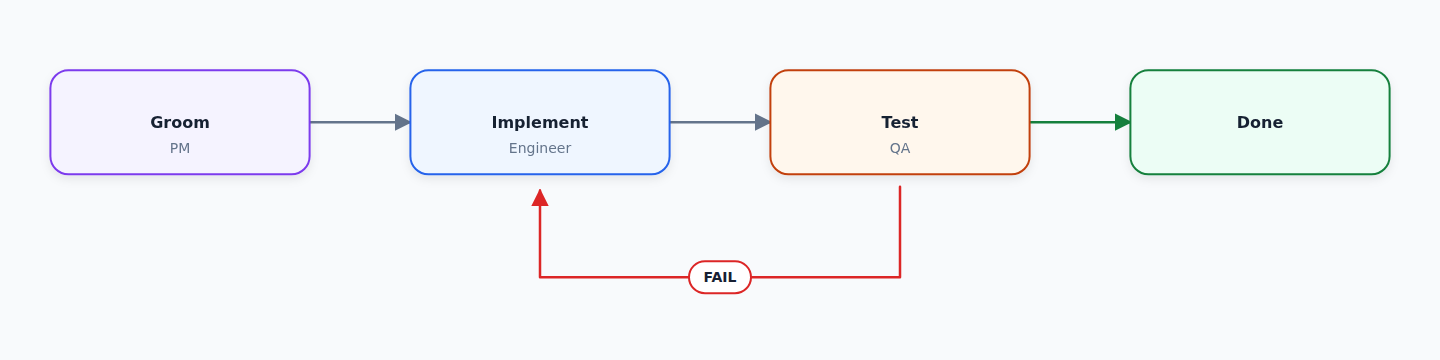
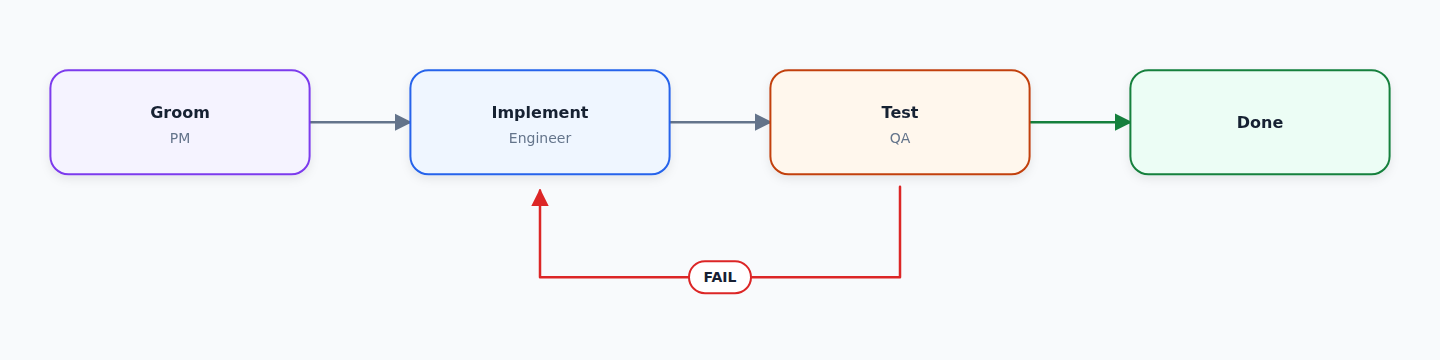
Fix ring corner arcs, center captions, and card alignment
Three defects visible in a rendered five-node ring:

Where the ring circle only grazes a card corner, the arc left the box
past the corner rather than beside a side, so the two cards straddling
the bottom were joined by a connector sagging underneath both of them.
Those pairs now get a direct connector between their facing sides.

The center detail line is a sentence of unknown width, and it cut
straight through the annotation circle. Render it as a caption below the
circle instead.

An icon left-aligned the title but the subtitle stayed centered, giving
each card two competing text axes and three ragged left edges. Share the
icon's margin, center the whole block on the card rather than just the
icon row, and fit long subtitles the way titles were already fitted.

Changed region(s): [[0.3438, 0.3056, 0.4062, 0.4278], [0.0938, 0.3056, 0.1562, 0.4278], [0.5938, 0.3056, 0.6562, 0.4278]]

diff --git a/tests/test_renderer.py b/tests/test_renderer.py
@@ -28,7 +28,7 @@ def ring_spec(width, height, *, count=5, margin=None):
                 {"from": f"step-{index}", "to": f"step-{(index + 1) % count}", "route": "ring"}
                 for index in range(count)
             ],
-            "center": {"title": "LOOP"},
+            "center": {"title": "LOOP", "detail": "Each round tells you what to fix"},
         }
     )
 
@@ -386,14 +386,47 @@ def test_renders_a_five_node_ring_as_svg(tmp_path):
     # The first card sits at the top of the circle and the rest follow clockwise.
     assert centers[0] == pytest.approx((center_x, center_y - radii[0]), abs=0.5)
     assert ring_angles(centers, center_x, center_y) == pytest.approx([72] * 5, abs=0.5)
-    # Every connector is one arc that follows the ring itself.
-    edges = re.findall(r'<path class="edge" d="M[-\d. ]+A([\d.]+) ([\d.]+) 0 0 1', svg)
-    assert len(edges) == 5
-    assert all(float(x) == pytest.approx(radii[0], abs=0.5) for edge in edges for x in edge)
+    # Connectors follow the ring itself, except where it only grazes a corner.
+    arcs = re.findall(r'<path class="edge" d="M[-\d. ]+A([\d.]+) ([\d.]+) 0 0 1', svg)
+    assert len(arcs) == 4
+    assert all(float(x) == pytest.approx(radii[0], abs=0.5) for arc in arcs for x in arc)
     assert '<symbol id="icon-database"' in svg
     assert ">@</text>" in svg
     assert 'textLength="188"' in svg
     assert "Each failure improves the data" in svg
+
+
+def test_ring_layout_joins_bottom_cards_without_sagging_under_them(tmp_path):
+    spec = ring_spec(940, 800)
+    output = tmp_path / "loop.svg"
+
+    render_diagram(spec, output)
+
+    svg = output.read_text()
+    # The circle dips below two cards that straddle the bottom, so their connector
+    # runs between their facing sides instead of arcing past the corners.
+    straight = re.findall(r'<path class="edge" d="M([-\d.]+) ([-\d.]+)L([-\d.]+) ([-\d.]+)"', svg)
+    assert len(straight) == 1
+    start_x, start_y, end_x, end_y = (float(value) for value in straight[0])
+    bottom = sorted(ring_card_centers(svg, 220, 90), key=lambda point: -point[1])[:2]
+    assert start_y == pytest.approx(bottom[0][1], abs=0.5)
+    assert end_y == pytest.approx(bottom[0][1], abs=0.5)
+    assert min(point[0] for point in bottom) < end_x < start_x < max(point[0] for point in bottom)
+
+
+def test_center_detail_sits_clear_of_the_annotation_circle(tmp_path):
+    spec = ring_spec(940, 800)
+    output = tmp_path / "loop.svg"
+
+    render_diagram(spec, output)
+
+    svg = output.read_text()
+    circle = re.search(
+        r'class="center-annotation" cx="([-\d.]+)" cy="([-\d.]+)" r="([-\d.]+)"', svg
+    )
+    detail = re.search(r'<text class="center-detail" x="[-\d.]+" y="([-\d.]+)"', svg)
+    assert circle is not None and detail is not None
+    assert float(detail.group(1)) > float(circle.group(2)) + float(circle.group(3))
 
 
 def test_ring_layout_centers_the_annotation_on_the_circle(tmp_path):
@@ -481,6 +514,85 @@ def test_renders_a_plain_node_without_a_card(tmp_path):
     assert 'class="node node-plain node-blue"' in svg
     assert 'filter="url(#shadow)">\n    <rect' in svg  # only the card keeps the shadow
     assert '<text class="node-subtitle icon-copy" x="56"' in svg
+
+
+def test_card_with_an_icon_shares_one_text_axis_and_centers_its_block(tmp_path):
+    spec = DiagramSpec.from_dict(
+        {
+            "layout": {"type": "manual", "card_width": 240, "card_height": 110},
+            "nodes": [
+                {
+                    "id": "docs",
+                    "title": "Docs",
+                    "subtitle": "Published guides",
+                    "icon": "document",
+                    "x": 40,
+                    "y": 40,
+                },
+                {"id": "app", "title": "App", "x": 400, "y": 40},
+            ],
+            "edges": [{"from": "docs", "to": "app"}],
+        }
+    )
+    output = tmp_path / "card.svg"
+
+    render_diagram(spec, output)
+
+    card = output.read_text().split('transform="translate(40 40)"', 1)[1].split("</g>", 1)[0]
+    icon_y = float(re.search(r'<use [^>]*y="([-\d.]+)"', card).group(1))
+    subtitle_y = float(
+        re.search(r'class="node-subtitle[^"]*" x="[-\d.]+" y="([-\d.]+)"', card).group(1)
+    )
+    # The icon anchors the left margin, so the subtitle starts there too.
+    assert '<text class="node-subtitle icon-copy" x="16"' in card
+    assert '<use href="#icon-document" x="16"' in card
+    # Icon top through subtitle descender is centered on the 110px card.
+    assert (icon_y + subtitle_y + 4) / 2 == pytest.approx(55, abs=2)
+
+
+def test_card_without_an_icon_keeps_both_lines_centered(tmp_path):
+    spec = DiagramSpec.from_dict(
+        {
+            "nodes": [
+                {"id": "plan", "title": "Plan", "subtitle": "PM"},
+                {"id": "app", "title": "App"},
+            ],
+            "edges": [{"from": "plan", "to": "app"}],
+        }
+    )
+    output = tmp_path / "card.svg"
+
+    render_diagram(spec, output)
+
+    card = output.read_text().split('<g class="node node-blue"', 1)[1].split("</g>", 1)[0]
+    assert '<text class="node-title" x=' in card
+    assert '<text class="node-subtitle" x=' in card
+    assert "icon-copy" not in card
+
+
+def test_long_subtitle_is_fitted_to_the_card(tmp_path):
+    spec = DiagramSpec.from_dict(
+        {
+            "layout": {"type": "manual", "card_width": 200, "card_height": 110},
+            "nodes": [
+                {
+                    "id": "docs",
+                    "title": "Docs",
+                    "subtitle": "A subtitle far too long for this narrow card",
+                    "x": 40,
+                    "y": 40,
+                },
+                {"id": "app", "title": "App", "x": 400, "y": 40},
+            ],
+            "edges": [{"from": "docs", "to": "app"}],
+        }
+    )
+    output = tmp_path / "card.svg"
+
+    render_diagram(spec, output)
+
+    card = output.read_text().split('transform="translate(40 40)"', 1)[1].split("</g>", 1)[0]
+    assert 'class="node-subtitle" x="100" y="76" textLength="168"' in card
 
 
 def test_draws_a_dashed_divider_between_grid_rows(tmp_path):

diff --git a/diagram_creator/renderer.py b/diagram_creator/renderer.py
@@ -58,6 +58,8 @@ RING_MARGIN = 40
 RING_EDGE_GAP = 12
 RING_ARC_SAMPLES = 240
 RING_CARD_GAP = 24
+TITLE_CHARACTER = 9.5
+SUBTITLE_CHARACTER = 7.3
 DEFAULT_STANDALONE_ICON_SIZE = 56
 STANDALONE_ICON_DIMENSIONS = {
     "user": (56, 56),
@@ -402,6 +404,13 @@ def _ring_layout(spec: DiagramSpec, width: int, height: int) -> dict[str, Box]:
     return boxes
 
 
+def _fit(text: str, available: float, per_character: float) -> str:
+    """Squeeze a line into its column only when it would otherwise overflow."""
+    if len(text) * per_character <= available:
+        return ""
+    return f' textLength="{_number(available)}" lengthAdjust="spacingAndGlyphs"'
+
+
 def _draw_node(node: Node, box: Box) -> str:
     palette = PALETTES[node.color]
     if node.variant == "icon":
@@ -409,9 +418,12 @@ def _draw_node(node: Node, box: Box) -> str:
     plain = node.variant == "plain"
     icon_size = 28
     compact = box.height < 80
-    icon_y = 19 if compact else (box.height - icon_size) / 2
-    title_y = 27 if compact else box.height / 2 + 6
-    subtitle_y = 50 if compact else box.height / 2 + 31
+    # A subtitle turns the card into a two-line block, so the icon and title row
+    # shifts up by half a line to keep the whole block on the card's center.
+    lift = 10 if node.subtitle and not compact else 0
+    icon_y = 19 if compact else (box.height - icon_size) / 2 - lift
+    title_y = 27 if compact else box.height / 2 + 6 - lift
+    subtitle_y = 50 if compact else box.height / 2 + 31 - lift
     center_x = box.width / 2
     radius = 16 if compact else 18
     shadow = "" if plain else ' filter="url(#shadow)"'
@@ -443,24 +455,27 @@ def _draw_node(node: Node, box: Box) -> str:
     title_x = 56 if node.icon else center_x
     title_class = "node-title icon-copy" if node.icon else "node-title"
     title_width = box.width - 72 if node.icon else box.width - 32
-    fit = (
-        f' textLength="{_number(title_width)}" lengthAdjust="spacingAndGlyphs"'
-        if len(node.title) * 9.5 > title_width
-        else ""
-    )
     lines.append(
         f'    <text class="{title_class}" x="{_number(title_x)}" '
-        f'y="{_number(title_y)}"{fit}>'
+        f'y="{_number(title_y)}"{_fit(node.title, title_width, TITLE_CHARACTER)}>'
         f"{escape(node.title)}</text>"
     )
     if node.subtitle:
-        # A borderless label has no card to center against, so both lines share one axis.
-        aligned = plain and node.icon
-        subtitle_x = title_x if aligned else center_x
-        subtitle_class = "node-subtitle icon-copy" if aligned else "node-subtitle"
+        if node.icon:
+            # The icon already anchors the card to a left edge. Centering the
+            # subtitle would put the two lines on different axes, so it shares
+            # the icon's margin instead - or the title's on a borderless label.
+            subtitle_x = title_x if plain else 16.0
+            subtitle_class = "node-subtitle icon-copy"
+        else:
+            subtitle_x = center_x
+            subtitle_class = "node-subtitle"
+        subtitle_width = box.width - subtitle_x - 16 if node.icon else box.width - 32
         lines.append(
             f'    <text class="{subtitle_class}" x="{_number(subtitle_x)}" '
-            f'y="{_number(subtitle_y)}">{escape(node.subtitle)}</text>'
+            f'y="{_number(subtitle_y)}"'
+            f"{_fit(node.subtitle, subtitle_width, SUBTITLE_CHARACTER)}>"
+            f"{escape(node.subtitle)}</text>"
         )
     lines.append("  </g>")
     return "\n".join(lines)
@@ -590,9 +605,21 @@ def _ring_path(
     span = 2 * math.pi / ring.count
     start = _ring_exit(ring, boxes[edge.source], start_angle, span)
     end = _ring_exit(ring, boxes[edge.target], start_angle + span, -span)
+    if not _ring_meets_an_edge(ring.point(start), boxes[edge.source]) or not _ring_meets_an_edge(
+        ring.point(end), boxes[edge.target]
+    ):
+        # The circle grazes a corner here, so an arc would sag past the cards instead
+        # of joining them. A direct connector reads as part of the same loop.
+        return _direct_path(edge, boxes, curved=False)
     radius = _number(ring.radius)
     path = f"M{_point(ring.point(start))}A{radius} {radius} 0 0 1 {_point(ring.point(end))}"
     return path, ring.point((start + end) / 2)
+
+
+def _ring_meets_an_edge(point: tuple[float, float], box: Box) -> bool:
+    """True when the arc leaves a card beside one of its sides, not past a corner."""
+    x, y = point
+    return box.y <= y <= box.bottom or box.x <= x <= box.right
 
 
 def _ring_exit(ring: Ring, box: Box, angle: float, span: float) -> float:
@@ -692,10 +719,11 @@ def _draw_center(spec: DiagramSpec, width: int, height: int) -> str:
         x, y = ring.center_x, ring.center_y
     else:
         x, y = width / 2, height / 2
+    title_y = y - 5 if center.subtitle else y + 6
     lines = [
         f'  <circle class="center-annotation" cx="{_number(x)}" cy="{_number(y)}" '
         f'r="{_number(center.radius)}"/>',
-        f'  <text class="center-title" x="{_number(x)}" y="{_number(y - 5)}">'
+        f'  <text class="center-title" x="{_number(x)}" y="{_number(title_y)}">'
         f"{escape(center.title)}</text>",
     ]
     if center.subtitle:
@@ -704,10 +732,11 @@ def _draw_center(spec: DiagramSpec, width: int, height: int) -> str:
             f"{escape(center.subtitle)}</text>"
         )
     if center.detail:
-        detail_y = y + 43 if center.subtitle else y + 25
+        # The detail line is a caption, and its width is unknown until the browser
+        # lays it out, so it sits clear of the circle instead of cutting through it.
         lines.append(
-            f'  <text class="center-detail" x="{_number(x)}" y="{_number(detail_y)}">'
-            f"{escape(center.detail)}</text>"
+            f'  <text class="center-detail" x="{_number(x)}" '
+            f'y="{_number(y + center.radius + 24)}">{escape(center.detail)}</text>'
         )
     return "\n".join(lines)
 

diff --git a/skills/diagram-creator/SKILL.md b/skills/diagram-creator/SKILL.md
@@ -200,9 +200,12 @@ component:
   independently.
 
 For a taller node with an icon, place the icon and title on one primary row and
-center the subtitle beneath them. Reuse the same icon axis, title axis, and
-baselines for all cards in that row or column. Keep the icon out of the
-subtitle's line box.
+put the subtitle beneath them on the icon's left margin. The two lines share one
+axis - a left-aligned title over a centered subtitle reads as two competing
+alignments. Center the whole block on the card rather than centering the icon
+row and letting the subtitle hang below it. Reuse the same icon axis, title
+axis, and baselines for all cards in that row or column. Keep the icon out of
+the subtitle's line box.
 
 For a node without an icon, center the title and subtitle on the card center.
 Do not reserve an empty icon column. Use the same typography, line spacing,
@@ -261,6 +264,8 @@ can make one continuous loop look broken.
 Optionally place a small neutral dashed circle in the center with a two-line
 label such as `CURATION / LOOP`. Treat it as annotation, not another workflow
 node: do not attach arrows to it, and keep it visually quieter than the cards.
+A `detail` line is rendered as a caption below the circle, because a sentence is
+almost always wider than the circle it would otherwise cut through.
 
 When one edge looks wrong, fix the reusable ring router rather than overriding
 one generated path. Inspect the rendered loop for bilateral symmetry,

diff --git a/README.md b/README.md
@@ -175,9 +175,11 @@ Available icons are `github`, `search`, `database`, `openai`, `issue`,
 `rank-fusion`, `message`, `video`, `sparkles`, `check`, `warning`, `close`,
 `mention`, `number-1`, `number-2`, and `number-3`.
 
-Cards use one component system: a 16 px inset, 28 px icon viewport, fixed text
-axis, centered subtitle, 2 px semantic border, 18 px radius, and a shared
-shadow. Long titles are fitted into the available text column automatically.
+Cards use one component system: a 16 px inset, 28 px icon viewport, 2 px
+semantic border, 18 px radius, and a shared shadow. An icon anchors the card to
+a left edge and the subtitle shares that margin; a card without an icon centers
+both lines instead. Either way the title and subtitle sit on one axis, the block
+is centered on the card, and long lines are fitted to the available column.
 
 Edge routes are `forward`, `below`, `straight`, `curve`, and `ring`. Explicit
 edges accept `from_anchor` and `to_anchor` values of `left`, `right`, `top`, or

diff --git a/docs/how-it-works.md b/docs/how-it-works.md
@@ -24,7 +24,10 @@ Each resolved card is a box with `x`, `y`, `width`, and `height`. Connectors use
 named anchors on those boxes. Cubic curves add two control points. Ring routes
 are arcs of the layout circle itself: the router walks the arc away from each
 card until it clears that card's box, then joins the two points with a single
-SVG `A` command, so every connector shares one curvature.
+SVG `A` command, so every connector shares one curvature. Where the circle only
+grazes a corner - two cards straddling the bottom of a five-node ring, for
+instance - an arc would sag underneath them, so those two cards get a direct
+connector between their facing sides instead.
 
 ## Drawing order
 
